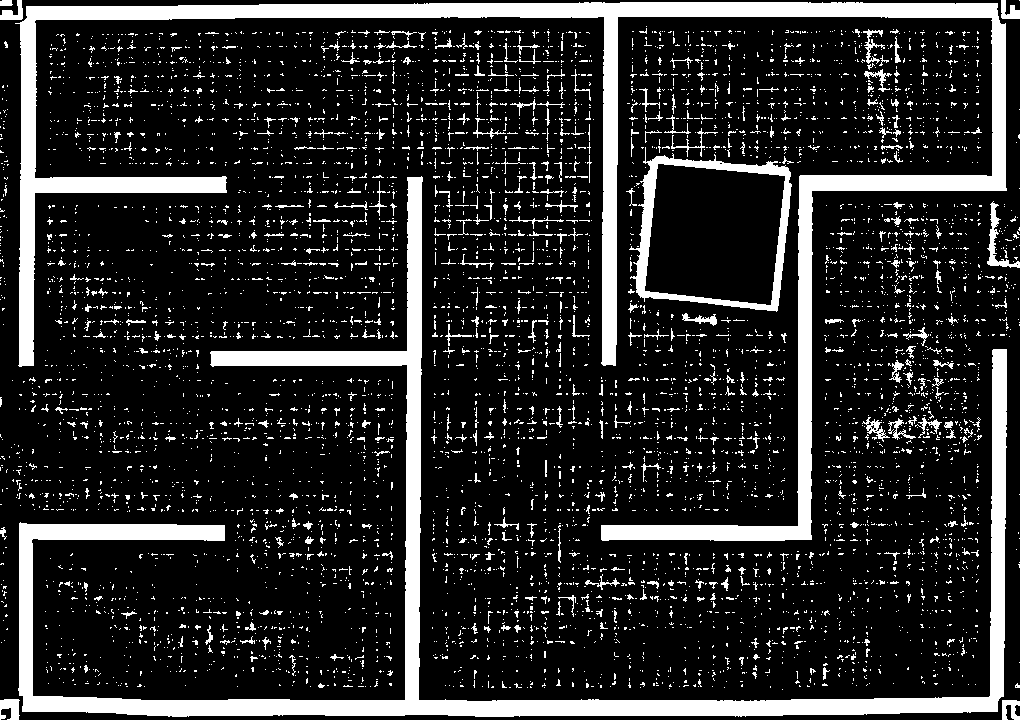
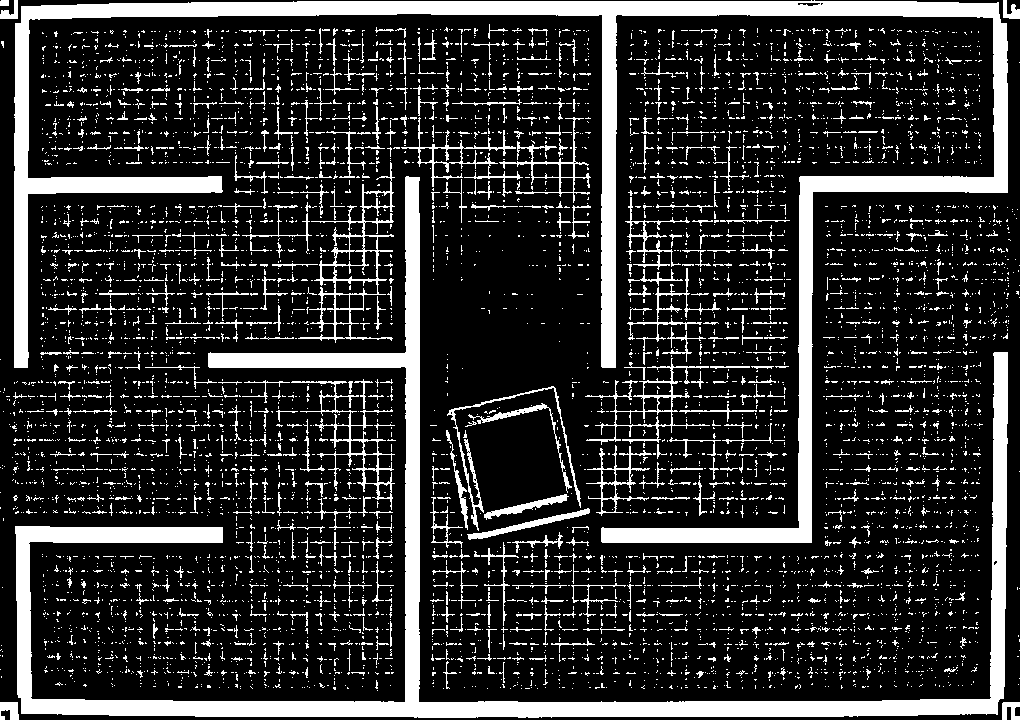
Un push pour la table 2

diff --git a/main_script.py b/main_script.py
@@ -135,11 +135,21 @@ async def prog():
     dst_th = do_adaptive_threshold(dst)
     dst = cv.cvtColor(dst, cv.COLOR_GRAY2BGR)
     # Localize thymio
+    detected_original = detect_aruco(img_gray)
     detected = detect_aruco(dst_th)
     (_, center, angle) = localize_thymio(dst_th, detected)
 
-    rvecs, tvecs = estimate_aruco_axis(img_gray, detected, 2, cam_int, marker_length=13e-3)
-    imgpts = compute_offset_elevation(cam_int, rvecs, tvecs, 0.1)
+    
+
+    rvecs, tvecs = estimate_aruco_axis(img, detected_original, 2, cam_int, marker_length=13e-3)
+    imgpts = compute_offset_elevation(cam_int, rvecs, tvecs, -1)
+
+    if imgpts is not None:
+      (_, center_original, _) = localize_thymio(img_gray, detected_original)
+      cv.drawMarker(img, np.int32(center_original), (0, 0, 255), markerSize=40, thickness=4)
+      cv.drawMarker(img, np.int32(imgpts), (0, 255, 255), markerSize=40, thickness=4)
+    else:
+      cv.putText(img, f'no imgpts!', (20, 20), cv.FONT_HERSHEY_SIMPLEX, 0.4, (0, 0, 255))
 
     offset_center = None
     if imgpts is not None:
@@ -166,8 +176,8 @@ async def prog():
     # deactivate temporaily motion control
     #center = None
            
-
-    if (center is not None):
+    center = offset_center
+    if (center is not None) and (angle is not None):
       actual_point, point_to_go, is_finished = set_point_to_go(actual_point, point_to_go, global_trajectory, distance, is_finished)
 
       # Position and orientation of the thymio
@@ -185,7 +195,9 @@ async def prog():
       alpha_e =  thymio.alpha - alpha_c            
 
       motor_L, motor_R = compute_motor_speed(alpha_e, regulator, is_finished)
-     
+
+      #await node.set_variables(motors(0,0))
+
       await node.set_variables(motors(int(motor_L), int(motor_R)))
       pass
     else:
@@ -199,7 +211,7 @@ async def prog():
     global_path = global_path.reshape((-1, 1, 2))
     cv.polylines(dst,[global_path],False,(255, 255, 0))
     
-    # cv.imshow('my webcam', img)
+    cv.imshow('my webcam', img)
     cv.imshow('transformed', dst)
     # cv.imshow('labyrinth', laby)
 

diff --git a/vision/vision_utils.py b/vision/vision_utils.py
@@ -215,7 +215,10 @@ def estimate_aruco_axis(img, detected, aruco_id, cam_int, marker_length=6e-3):
   (mtx, dist, rvecs, tvecs) = cam_int
 
   (corners, ids, rejected) = detected
-
+  
+  if ids is None:
+    return None, None
+  
   all_corners = [corners[i][0] for i, _ in enumerate(ids)]
 
   thymio_index = None
@@ -223,12 +226,12 @@ def estimate_aruco_axis(img, detected, aruco_id, cam_int, marker_length=6e-3):
     if id == thymio_id:
       thymio_index = i
 
-  # (c, corners) = get_pos_aruco(detected, aruco_id)
+  (c, corners) = get_pos_aruco(detected, aruco_id)
 
   if c is not None and thymio_index is not None:
     local_rvecs, local_tvecs, _ = cv.aruco.estimatePoseSingleMarkers(all_corners, marker_length, mtx, dist)
-
-    cv.aruco.drawAxis(img, mtx, dist, local_rvecs, local_tvecs, 0.01)
+ 
+    cv.aruco.drawAxis(img, mtx, dist, local_rvecs[thymio_index], local_tvecs[thymio_index], 0.01)
     return local_rvecs[thymio_index], local_tvecs[thymio_index]
   else:
     return None, None
